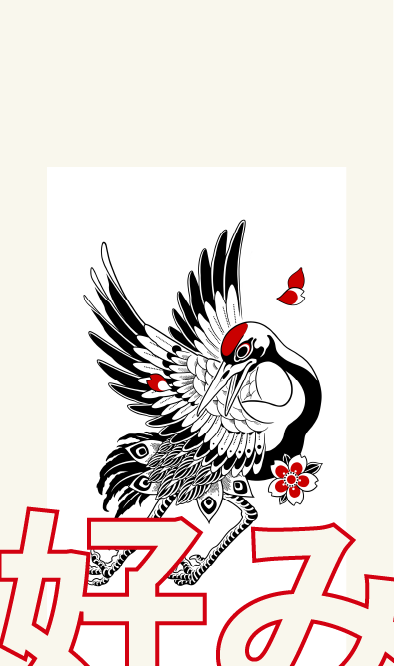
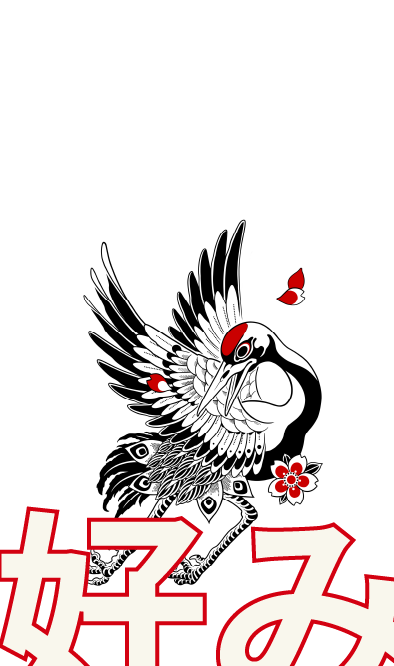
changes

diff --git a/src/app/components/background/BackgroundCanvas/BackgrounCanvas.tsx b/src/app/components/background/BackgroundCanvas/BackgrounCanvas.tsx
@@ -146,7 +146,7 @@ export default function BackgroundCanvas() {
 
     const renderer = new WebGLRenderer({ antialias: true });
     renderer.setSize(window.innerWidth, window.innerHeight);
-    renderer.setClearColor(0xffffff, 1);
+    renderer.setClearColor(0xf9f7ed, 1);
     renderer.setPixelRatio(Math.min(window.devicePixelRatio, 2));
 
     mountRef.current.appendChild(renderer.domElement);

diff --git a/src/app/globals.css b/src/app/globals.css
@@ -49,6 +49,7 @@ body {
     min-height: 100svh;
     height: fit-content;
     overflow-x: hidden;
+    background-color: #F9F7ED !important;
 }
 
 h1,
@@ -102,6 +103,7 @@ p {
     font-size: 1.2rem;
     hyphens: auto;
     text-align: justify;
+    background-color: #F9F7ED !important;
 
 }
 

diff --git a/src/app/events/components/Filtercomponents/Topfield.module.css b/src/app/events/components/Filtercomponents/Topfield.module.css
@@ -16,7 +16,7 @@
     border: 1px solid var(--dark-blue);
     cursor: pointer;
     transition: all 0.2s var(--bezier);
-    background-color: white;
+    background-color: #F9F7ED;
     z-index: 20;
 }
 

diff --git a/src/app/events/components/MainHeading.module.css b/src/app/events/components/MainHeading.module.css
@@ -5,7 +5,7 @@
     width: 100%;
     z-index: 1;
     left: var(--main-container-padding);
-    background-color: white;
+    background-color: #F9F7ED;
 }
 
 .mainHeading {

diff --git a/src/app/components/header/HeaderContent/Hamburger/Hamburger.module.css b/src/app/components/header/HeaderContent/Hamburger/Hamburger.module.css
@@ -22,7 +22,7 @@
 }
 
 .open .hamburgerLine {
-    background-color: white;
+    background-color: #F9F7ED;
 }
 
 /* Position lines with absolute positioning */

diff --git a/src/app/components/header/Header.module.css b/src/app/components/header/Header.module.css
@@ -9,5 +9,5 @@
     z-index: 1000;
     top: 0;
     left: 0;
-    background-color: rgba(255, 255, 255, 1);
+    background-color: #F9F7ED;
 }

diff --git a/src/app/components/background/Background.module.css b/src/app/components/background/Background.module.css
@@ -8,4 +8,5 @@
     top: 0;
     left: 0;
     z-index: -2;
+    background-color: #F9F7ED;
 }
